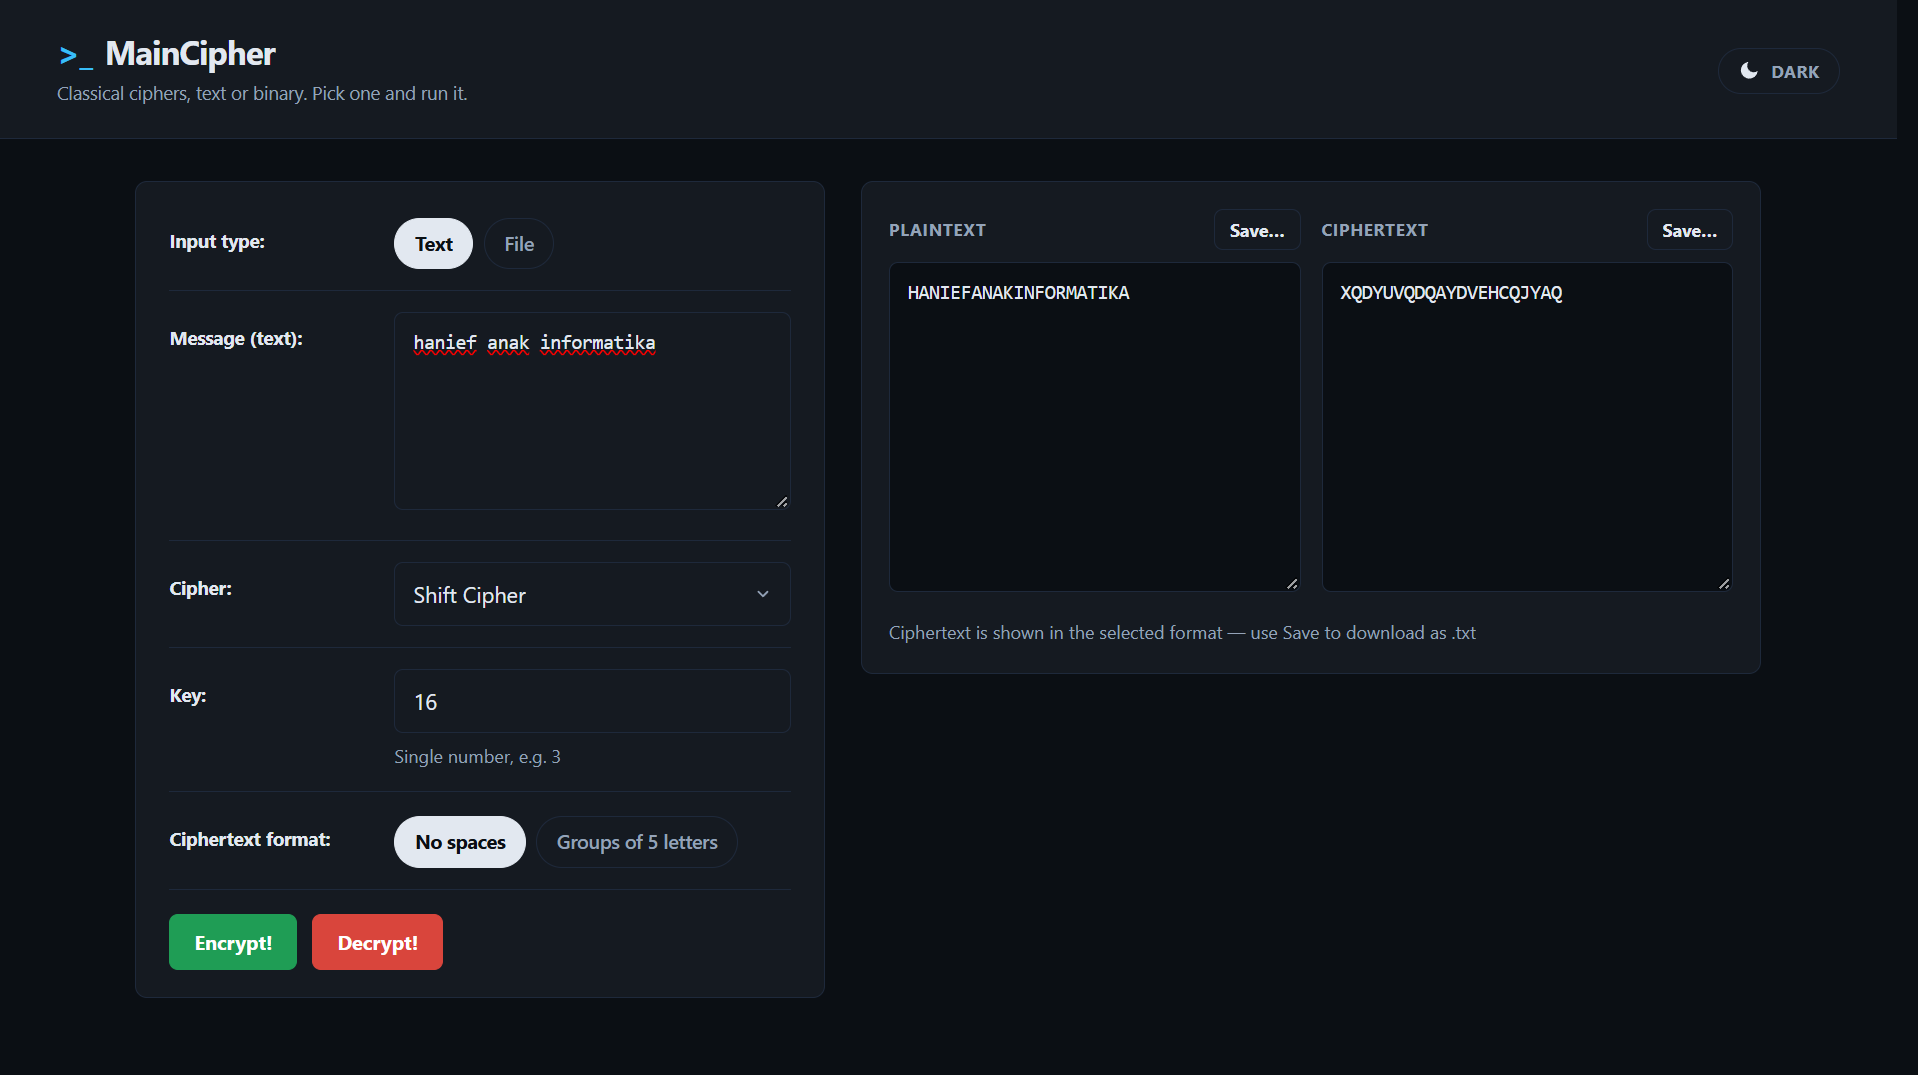
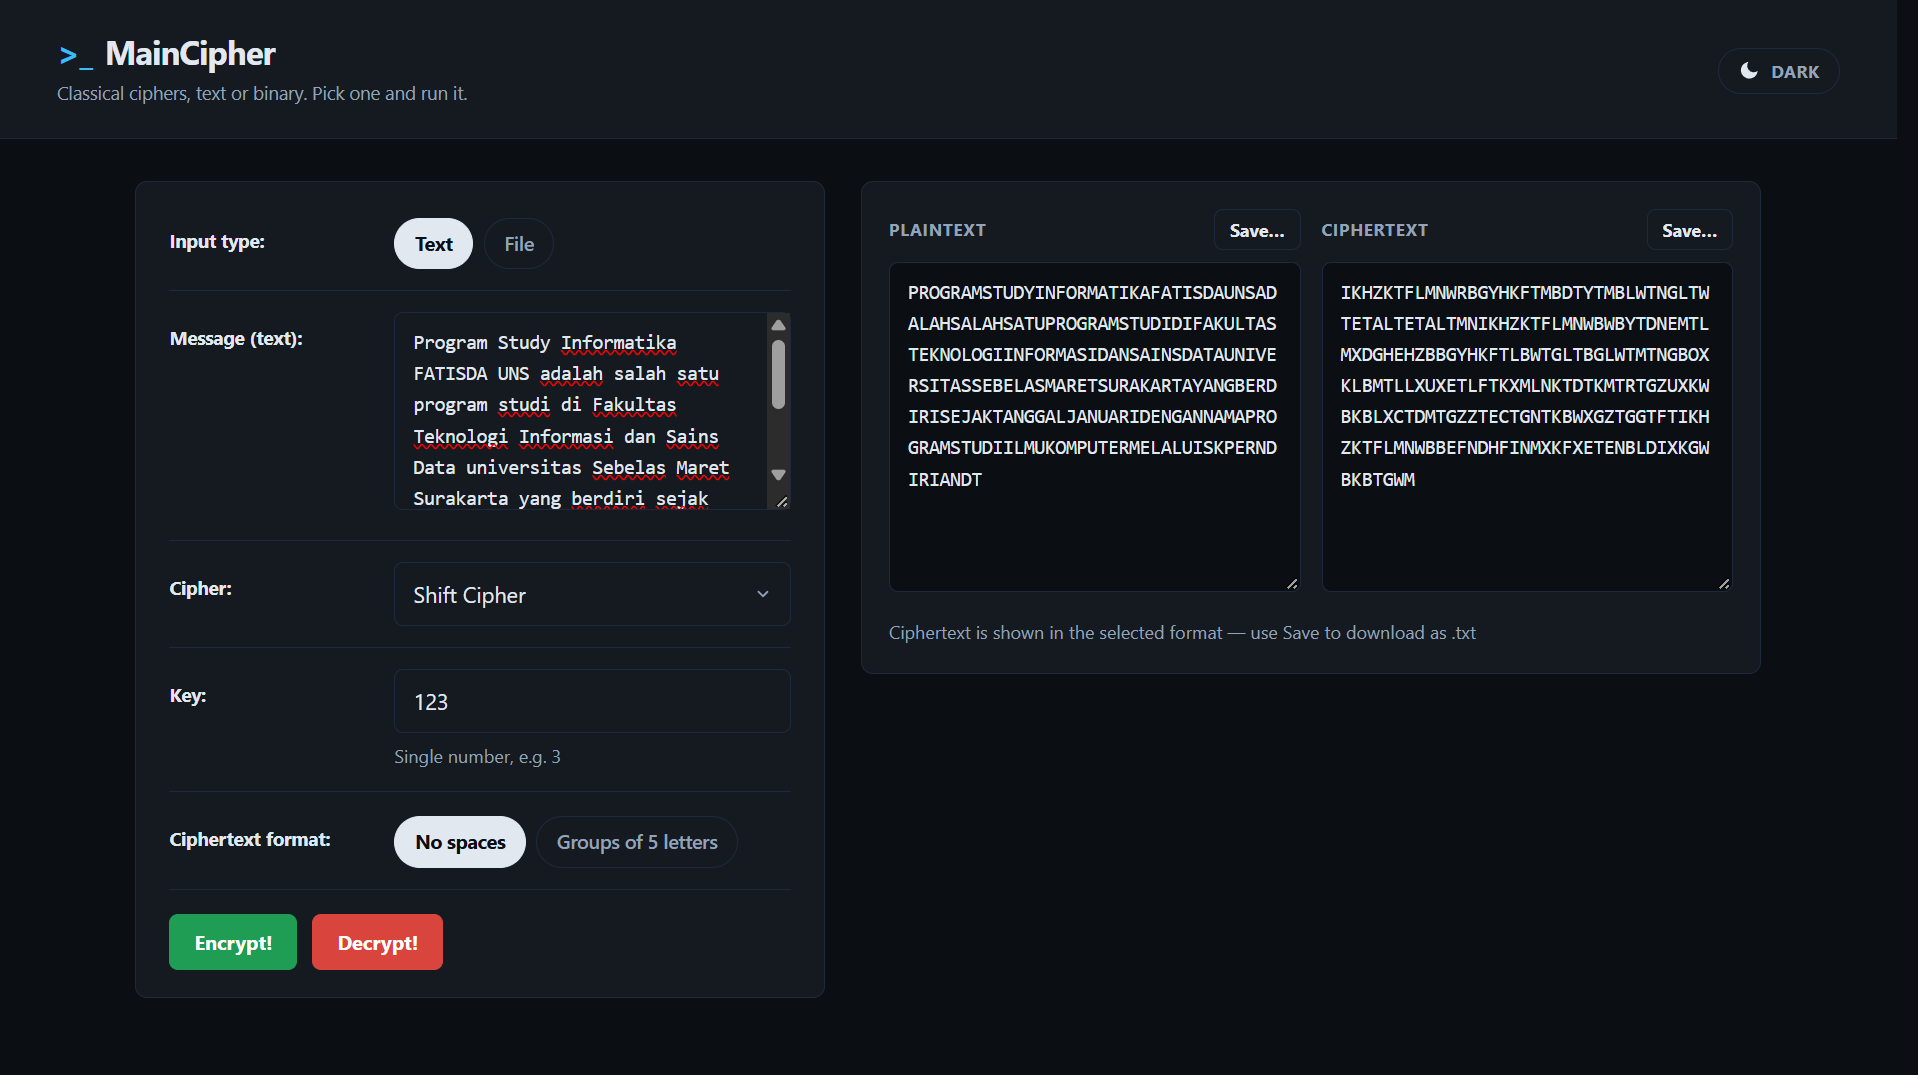
docs(readme): ganti screenshot hasil enkripsi (terang & gelap) dengan contoh pesan panjang

diff --git a/README.md b/README.md
@@ -48,7 +48,7 @@ Antarmuka saat pertama dibuka: pilih jenis input (**Text** / **File**), tulis pe
 
 ![Panel Plaintext dan Ciphertext pada tema terang](docs/ui-hasil-enkripsi.png)
 
-Setelah menekan **Encrypt!**, panel kanan menampilkan **Plaintext** dan **Ciphertext** berdampingan. Contoh: pesan `hanief anak informatika` dengan **Shift Cipher** (kunci `16`) menghasilkan cipherteks `XQDYUVQDQAYDVEHCQJYAQ`. Tombol **Save…** mengunduh hasil sebagai `.txt`.
+Setelah menekan **Encrypt!**, panel kanan menampilkan **Plaintext** dan **Ciphertext** berdampingan. Contoh: pesan `Program Study Informatika FATISDA UNS adalah salah satu program studi di Fakultas Teknologi Informasi dan Sains Data universitas Sebelas Maret Surakarta yang berdiri sejak ...` dengan **Shift Cipher** (kunci `123`) menghasilkan cipherteks kelompok huruf hasil pergeseran alfabet. Tombol **Save…** mengunduh hasil sebagai `.txt`.
 
 ### 3. Form Input (Tema Gelap)
 
@@ -60,7 +60,7 @@ Tombol tema di kanan atas mengganti tampilan ke **mode gelap** (label `DARK`). S
 
 ![Panel Plaintext dan Ciphertext pada tema gelap](docs/ui-dark-hasil.png)
 
-Tampilan hasil yang sama dalam mode gelap: **Plaintext** `HANIEFANAKINFORMATIKA` dan **Ciphertext** berdampingan. Tema yang dipilih diingat oleh browser, jadi tidak perlu diatur ulang setiap membuka aplikasi.
+Tampilan hasil yang sama dalam mode gelap: **Plaintext** dan **Ciphertext** berdampingan. Tema yang dipilih diingat oleh browser, jadi tidak perlu diatur ulang setiap membuka aplikasi.
 
 ---
 
